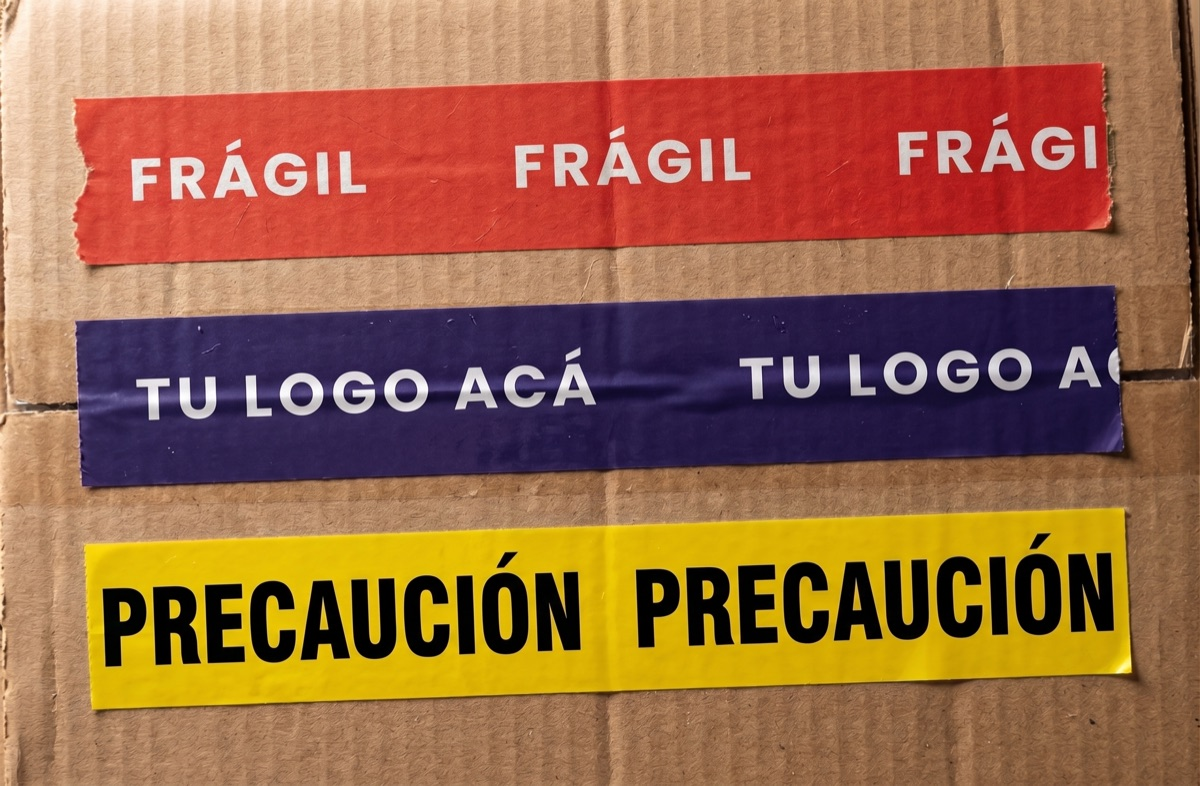
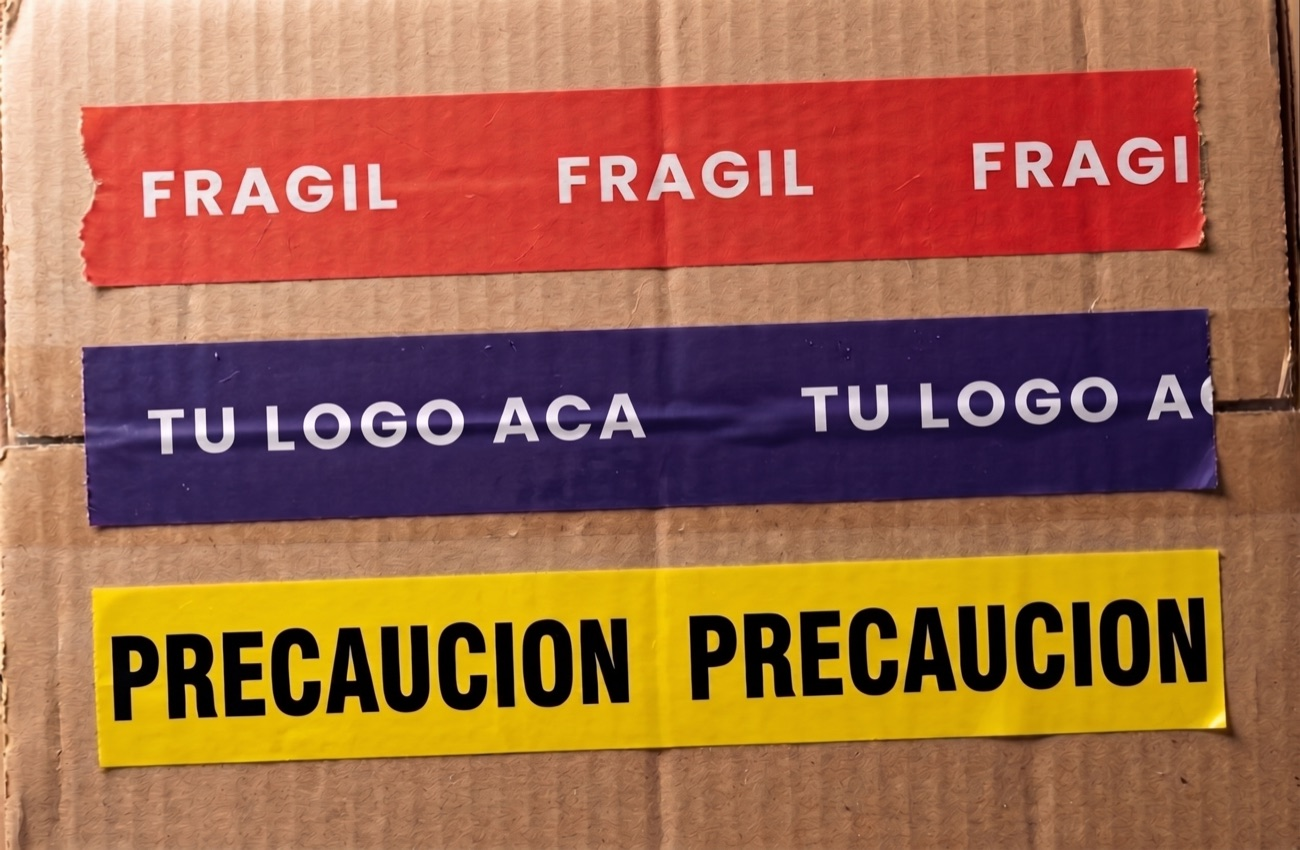
Use new printed-tapes photo and real printed-bag photo (service)

diff --git a/js/products.js b/js/products.js
@@ -27,7 +27,7 @@
     { name: "Cinta de embalaje personalizada", category: "personalizada", desc: "Impresión flexográfica pre-impresa: hasta 4 colores sobre fondo blanco o marrón. Sello de seguridad y publicidad de tu marca en cada envío.", specs: ["Hasta 4 colores", "24/48/72 mm", "40–100 mts"], color: "#e7e0cf", tag: "Personalizada", hot: true, band: "TU MARCA", bandColor: "#312866", bandInk: "#ffffff", img: "../assets/tapes/biocint.jpg" },
     { name: "Cinta perimetral personalizada", category: "personalizada", desc: "Cinta perimetral en base polietileno, impresa hasta 4 colores sobre fondo de color. Consultá medidas y colores.", specs: ["Base polietileno", "Hasta 4 colores", "A medida"], color: "#e8eef0", bands: [{ text: "PRECAUCIÓN", color: "#f2c200", ink: "#1a1a1a" }, { text: "PRECAUCIÓN", color: "#ffffff", ink: "#e01f1f" }], img: "../assets/tapes/precaucion.jpg" },
     { name: "Cinta de embalaje de color", category: "color", desc: "Cintas de color fabricadas a pedido (demora mínima 10 días). Rojo, negro y blanco; consultá por otros colores.", specs: ["Rojo / Negro / Blanco", "24/48/72 mm", "A pedido"], color: "#b23b3b", img: "../assets/tapes/roja.jpg" },
-    { name: "Servicio de impresión", category: "servicios", desc: "Imprimimos sobre polietileno de baja y alta densidad, papel kraft y polipropileno. Ancho hasta 800 mm. Pedí la lista de precios por WhatsApp.", specs: ["Kraft / PE / PP", "Ancho máx. 800 mm", "A pedido"], color: "#e8eef0", tag: "Servicio", art: "bag" },
+    { name: "Servicio de impresión", category: "servicios", desc: "Imprimimos sobre polietileno de baja y alta densidad, papel kraft y polipropileno. Ancho hasta 800 mm. Pedí la lista de precios por WhatsApp.", specs: ["Kraft / PE / PP", "Ancho máx. 800 mm", "A pedido"], color: "#e8eef0", tag: "Servicio", art: "bag", img: "../assets/tapes/bolsita.jpg" },
   ];
 
   // Foto del hero (rollo real biocint) para los diseños con hero de rollo.